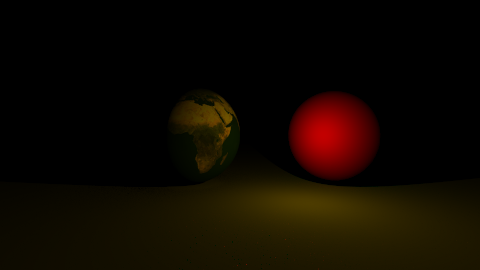
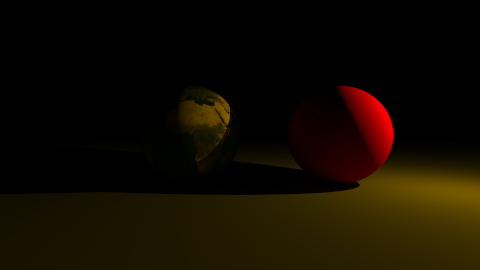
Fixed a Bug

diff --git a/src/a10/Sphere.java b/src/a10/Sphere.java
@@ -33,9 +33,9 @@ public class Sphere implements Shape{
         double c = Vector.dotProduct(x0, x0) - (radius * radius);
         double diskriminante = (b * b) - (4 * a * c);
         if (diskriminante >= 0) {
-            double t1 = (-1 * b + Math.sqrt(diskriminante)) / 2 * a;
-            double t2 = (-1 * b - Math.sqrt(diskriminante)) / 2 * a;
-            if (t1 < t2 && r.isValid(t1)){
+            double t1 = (-1 * b - Math.sqrt(diskriminante)) / (2 * a);
+            double t2 = (-1 * b + Math.sqrt(diskriminante)) / (2 * a);
+            if (r.isValid(t1)){
                 Point temp = Vector.add(r.x0, Vector.multiply(t1, r.d));
                 Direction n = Vector.divide(Vector.subtract(temp, center), radius);
                 double inclination = Math.acos(n.y);
@@ -44,7 +44,7 @@ public class Sphere implements Shape{
 	            double v = inclination / Math.PI;
                 return new Hit(temp, t1, col, n, mat, u, v);
             } 
-            if (t1 > t2 && r.isValid(t2)){
+            if (r.isValid(t2)){
                 Point temp = Vector.add(r.x0, Vector.multiply(t2, r.d));
                 Direction n = Vector.divide(Vector.subtract(temp, center), radius); 
                 double inclination = Math.acos(n.y);

diff --git a/src/a11/Main.java b/src/a11/Main.java
@@ -23,16 +23,16 @@ public class Main {
       scene.add(ground);
       scene.add(s1);
       scene.add(earth);
-      Light l1 = new Pointlight(Vector.point(1, 0, -3.5), Color.yellow);
+      Light l1 = new Pointlight(Vector.point(0, 1, -4), new Color(7, 4, 0));
       Light l2 = new Directlight(Vector.direction(1, 1, 0), new Color(2, 2, 2));
       World world = new World(scene);
-      world.addLight(l1);
+      world.addLight(l2);
       LightRaytracer content = new LightRaytracer(width, height, 100, world);
 
       Image image = new Image((int) width, (int) height);
       image.superSample(content, ABTASTUNGEN_PRO_PIXEL, 8);      
 
-      final String filename = "doc/a11-1.png";
+      final String filename = "doc/a11-2.png";
       image.write(filename);
       System.out.println("Wrote image: " + filename);  
 

diff --git a/src/a11/Directlight.java b/src/a11/Directlight.java
@@ -18,7 +18,8 @@ public class Directlight implements Light {
 
     @Override
     public Color incomingIntensity(Point hit, Direction normal, Shape scene) {
-        Ray shadow = new Ray(hit, dir, 0.0001, Vector.length(dir));
+        
+        Ray shadow = new Ray(hit, dir, 0.0001, Double.MAX_VALUE);
         if (scene.intersect(shadow) != null){
             return Color.black;
         }
